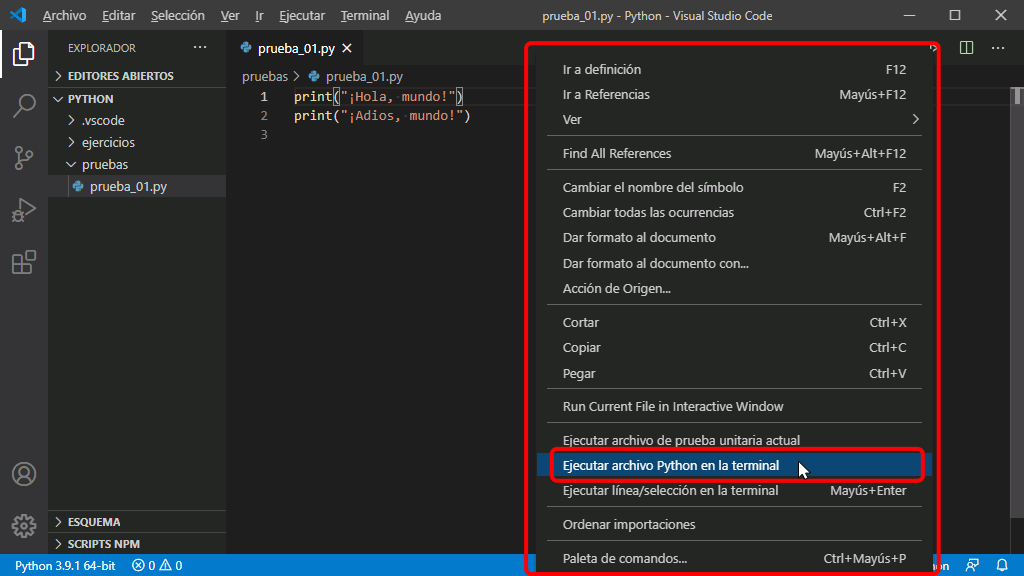
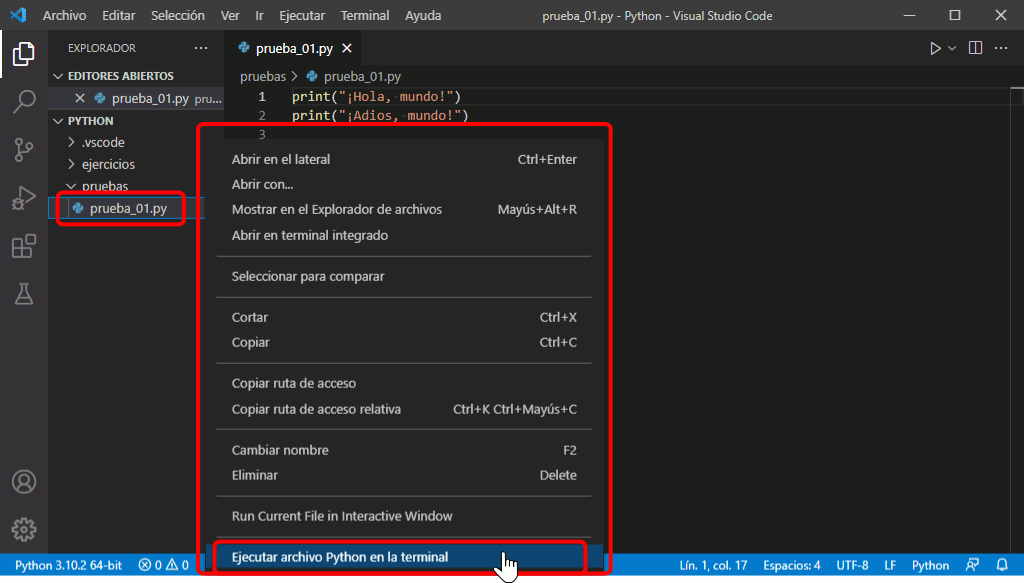
Configuración VSCode: actualizo detalles

diff --git a/otros/vsc-python-configuracion.html b/otros/vsc-python-configuracion.html
@@ -82,9 +82,15 @@
         </p>
       </li>
 
-      <li>Se abrirá en Explorador en la barra de actividades para ver el contenido de la carpeta elegida:
+      <li>Desde la versión 1.57 (mayo 2021) Visual Studio Code incluye un administrador de confianza (<a href="https://code.visualstudio.com/docs/editor/workspace-trust">Workspace Trust</a>). Visual Studio Code sólo ejecutará archivos cuando se haya indicado que se confía en ellos. La primera vez que se abre una carpeta, Visual Studio Code pregunta si se confía en el contenido de esa carpeta. Haga clic en "Sí, confío en los autores":
         <p class="captura">
-          <img src="../img/vscode/vsc-python-area-trabajo-5.png" alt="VSC. Área de trabajo" width="1024" height="210">
+          <img src="../img/vscode/vsc-python-area-trabajo-5.png" alt="VSC. Área de trabajo" width="1024" height="576">
+        </p>
+      </li>
+
+      <li>Se abrirá el Explorador en la barra de actividades para ver el contenido de la carpeta elegida:
+        <p class="captura">
+          <img src="../img/vscode/vsc-python-area-trabajo-6.png" alt="VSC. Área de trabajo" width="1024" height="210">
         </p>
       </li>
     </ol>
@@ -104,81 +110,88 @@
           Si ya tiene definidas otras preferencias en el <a href="https://www.mclibre.org/consultar/informatica/lecciones/vsc-personalizacion.html#configuracion">archivo de configuración</a>, añada las siguientes preferencias de configuración:
           <div class="codigo">
             <pre>
-<code class="copy-language-json">  //
-  //
-  // Configuraciones recomendadas para el curso Introducción a la programación con Python
-  //
-  // Files: Insert Final Newline
-  // Si se habilita, inserte una nueva línea al final del archivo cuando lo guarde.
-  "files.insertFinalNewline": true,
-  //
-  // Extensión multi-command
-  "multiCommand.commands": [
-    {
-      "command": "multiCommand.clearTerminal",
-      "sequence": [
+<code class="copy-language-json">   //
+    //
+    // Configuraciones recomendadas para el curso Introducción a la programación con Python
+    //
+    // Files: Insert Final Newline
+    // Si se habilita, inserte una nueva línea al final del archivo cuando lo guarde.
+    "files.insertFinalNewline": true,
+    //
+    // Python &gt; Formatting: Provider
+    // Provider for formatting. Possible options include 'autopep8', 'black', and 'yapf'.
+    "python.formatting.provider": "black",
+    //
+    // Extensión multi-command
+    "multiCommand.commands": [
         {
-          "command": "workbench.action.terminal.sendSequence",
-          "args": {
-            "text": "clear\u000D"
-          }
+            "command": "multiCommand.clearTerminal",
+            "sequence": [
+                {
+                    "command": "workbench.action.terminal.sendSequence",
+                    "args": {
+                        "text": "clear\u000D"
+                    }
+                },
+                "workbench.action.focusActiveEditorGroup",
+            ],
         },
-        "workbench.action.focusActiveEditorGroup",
-      ],
-    },
-    {
-      "command": "multiCommand.pythonExecuteInTerminal",
-      "sequence": [
-        "workbench.action.terminal.focus",
         {
-          "command": "workbench.action.terminal.sendSequence",
-          "args": {
-            "text": "cd '${fileDirname}'\u000Dclear\u000Dpy '${fileBasename}'\u000D"
-          }
+            "command": "multiCommand.pythonExecuteInTerminal",
+            "sequence": [
+                "workbench.action.terminal.focus",
+                {
+                    "command": "workbench.action.terminal.sendSequence",
+                    "args": {
+                        "text": "cd '${fileDirname}'\u000Dclear\u000Dpy '${fileBasename}'\u000D"
+                    }
+                },
+                "workbench.action.focusActiveEditorGroup",
+            ],
         },
-        "workbench.action.focusActiveEditorGroup",
-      ],
-    },
-    {
-      "command": "multiCommand.pythonExecuteAndFocusInTerminal",
-      "sequence": [
-        "workbench.action.terminal.focus",
         {
-          "command": "workbench.action.terminal.sendSequence",
-          "args": {
-            "text": "cd '${fileDirname}'\u000Dclear\u000Dpy '${fileBasename}'\u000D"
-          }
+            "command": "multiCommand.pythonExecuteAndFocusInTerminal",
+            "sequence": [
+                "workbench.action.terminal.focus",
+                {
+                    "command": "workbench.action.terminal.sendSequence",
+                    "args": {
+                        "text": "cd '${fileDirname}'\u000Dclear\u000Dpy '${fileBasename}'\u000D"
+                    }
+                },
+            ],
         },
-      ],
-    },
-    {
-      "command": "multiCommand.pythonMptcInTerminal",
-      "sequence": [
-        "workbench.action.terminal.focus",
         {
-          "command": "workbench.action.terminal.sendSequence",
-          "args": {
-            "text": "cd '${fileDirname}'\u000Dclear\u000Dmptc '${fileBasename}' "
-          }
+            "command": "multiCommand.pythonMptcInTerminal",
+            "sequence": [
+                "workbench.action.terminal.focus",
+                {
+                    "command": "workbench.action.terminal.sendSequence",
+                    "args": {
+                        "text": "cd '${fileDirname}'\u000Dclear\u000Dmptc '${fileBasename}' "
+                    }
+                },
+            ],
         },
-      ],
-    },
-  ],
-  //
-  // Extensión pylint
-  "python.linting.pylintArgs": [
-    "--extension-pkg-whitelist=pygame",
-    "--disable=C0103, C0114, C0115, C0116",
-    // Pylint features. Pylint global options and switches
-    // http://pylint.pycqa.org/en/2.4/technical_reference/features.html
-    // http://pylint.pycqa.org/en/latest/technical_reference/features.html
-    // C0103: invalid-name - Used when the name doesn't conform to naming rules associated to its type (constant, variable, class...).
-    // C0114: missing-module-docstring - Used when a module has no docstring.Empty modules do not require a docstring.
-    // C0115: missing-class-docstring - Used when a class has no docstring.Even an empty class must have a docstring.
-    // C0116: missing-function-docstring - Used when a function or method has no docstring.Some special methods like __init__ do not require a docstring.
-  ],
-  //
-  //</code>
+    ],
+    //
+    // Extensión pylint
+    "python.linting.pylintArgs": [
+        "--extension-pkg-whitelist=pygame",
+        "--disable=C0103, C0114, C0115, C0116, C0301, C0302, C0330",
+        // Pylint features. Pylint global options and switches
+        // http://pylint.pycqa.org/en/2.4/technical_reference/features.html
+        // http://pylint.pycqa.org/en/latest/technical_reference/features.html
+        // C0103: invalid-name - Used when the name doesn't conform to naming rules associated to its type (constant, variable, class...).
+        // C0114: missing-module-docstring - Used when a module has no docstring.Empty modules do not require a docstring.
+        // C0115: missing-class-docstring - Used when a class has no docstring.Even an empty class must have a docstring.
+        // C0116: missing-function-docstring - Used when a function or method has no docstring.Some special methods like __init__ do not require a docstring.
+        // C0301: line-too-long
+        // C0302: too-many-lines
+        // C0330: bad-continuation - Wrong %s indentation%s%s. TODO
+    ],
+    //
+    //</code>
 </pre>
           </div>
         </li>
@@ -187,78 +200,85 @@
           <div class="codigo">
             <pre>
 <code class="copy-language-json">{
-  // Configuraciones recomendadas para el curso Introducción a la programación con Python
-  //
-  // Files: Insert Final Newline
-  // Si se habilita, inserte una nueva línea al final del archivo cuando lo guarde.
-  "files.insertFinalNewline": true,
-  //
-  // Extensión multi-command
-  "multiCommand.commands": [
-    {
-      "command": "multiCommand.clearTerminal",
-      "sequence": [
+    // Configuraciones recomendadas para el curso Introducción a la programación con Python
+    //
+    // Files: Insert Final Newline
+    // Si se habilita, inserte una nueva línea al final del archivo cuando lo guarde.
+    "files.insertFinalNewline": true,
+    //
+    // Python &gt; Formatting: Provider
+    // Provider for formatting. Possible options include 'autopep8', 'black', and 'yapf'.
+    "python.formatting.provider": "black",
+    //
+    // Extensión multi-command
+    "multiCommand.commands": [
         {
-          "command": "workbench.action.terminal.sendSequence",
-          "args": {
-            "text": "clear\u000D"
-          }
+            "command": "multiCommand.clearTerminal",
+            "sequence": [
+                {
+                    "command": "workbench.action.terminal.sendSequence",
+                    "args": {
+                        "text": "clear\u000D"
+                    }
+                },
+                "workbench.action.focusActiveEditorGroup",
+            ],
         },
-        "workbench.action.focusActiveEditorGroup",
-      ],
-    },
-    {
-      "command": "multiCommand.pythonExecuteInTerminal",
-      "sequence": [
-        "workbench.action.terminal.focus",
         {
-          "command": "workbench.action.terminal.sendSequence",
-          "args": {
-            "text": "cd '${fileDirname}'\u000Dclear\u000Dpy '${fileBasename}'\u000D"
-          }
+            "command": "multiCommand.pythonExecuteInTerminal",
+            "sequence": [
+                "workbench.action.terminal.focus",
+                {
+                    "command": "workbench.action.terminal.sendSequence",
+                    "args": {
+                        "text": "cd '${fileDirname}'\u000Dclear\u000Dpy '${fileBasename}'\u000D"
+                    }
+                },
+                "workbench.action.focusActiveEditorGroup",
+            ],
         },
-        "workbench.action.focusActiveEditorGroup",
-      ],
-    },
-    {
-      "command": "multiCommand.pythonExecuteAndFocusInTerminal",
-      "sequence": [
-        "workbench.action.terminal.focus",
         {
-          "command": "workbench.action.terminal.sendSequence",
-          "args": {
-            "text": "cd '${fileDirname}'\u000Dclear\u000Dpy '${fileBasename}'\u000D"
-          }
+            "command": "multiCommand.pythonExecuteAndFocusInTerminal",
+            "sequence": [
+                "workbench.action.terminal.focus",
+                {
+                    "command": "workbench.action.terminal.sendSequence",
+                    "args": {
+                        "text": "cd '${fileDirname}'\u000Dclear\u000Dpy '${fileBasename}'\u000D"
+                    }
+                },
+            ],
         },
-      ],
-    },
-    {
-      "command": "multiCommand.pythonMptcInTerminal",
-      "sequence": [
-        "workbench.action.terminal.focus",
         {
-          "command": "workbench.action.terminal.sendSequence",
-          "args": {
-            "text": "cd '${fileDirname}'\u000Dclear\u000Dmptc '${fileBasename}' "
-          }
+            "command": "multiCommand.pythonMptcInTerminal",
+            "sequence": [
+                "workbench.action.terminal.focus",
+                {
+                    "command": "workbench.action.terminal.sendSequence",
+                    "args": {
+                        "text": "cd '${fileDirname}'\u000Dclear\u000Dmptc '${fileBasename}' "
+                    }
+                },
+            ],
         },
-      ],
-    },
-  ],
-  //
-  // Extensión pylint
-  "python.linting.pylintArgs": [
-    "--extension-pkg-whitelist=pygame",
-    "--disable=C0103, C0114, C0115, C0116",
-    // Pylint features. Pylint global options and switches
-    // http://pylint.pycqa.org/en/2.4/technical_reference/features.html
-    // http://pylint.pycqa.org/en/latest/technical_reference/features.html
-    // C0103: invalid-name - Used when the name doesn't conform to naming rules associated to its type (constant, variable, class...).
-    // C0114: missing-module-docstring - Used when a module has no docstring.Empty modules do not require a docstring.
-    // C0115: missing-class-docstring - Used when a class has no docstring.Even an empty class must have a docstring.
-    // C0116: missing-function-docstring - Used when a function or method has no docstring.Some special methods like __init__ do not require a docstring.
-  ],
-  //
+    ],
+    //
+    // Extensión pylint
+    "python.linting.pylintArgs": [
+        "--extension-pkg-whitelist=pygame",
+        "--disable=C0103, C0114, C0115, C0116, C0301, C0302, C0330",
+        // Pylint features. Pylint global options and switches
+        // http://pylint.pycqa.org/en/2.4/technical_reference/features.html
+        // http://pylint.pycqa.org/en/latest/technical_reference/features.html
+        // C0103: invalid-name - Used when the name doesn't conform to naming rules associated to its type (constant, variable, class...).
+        // C0114: missing-module-docstring - Used when a module has no docstring.Empty modules do not require a docstring.
+        // C0115: missing-class-docstring - Used when a class has no docstring.Even an empty class must have a docstring.
+        // C0116: missing-function-docstring - Used when a function or method has no docstring.Some special methods like __init__ do not require a docstring.
+        // C0301: line-too-long
+        // C0302: too-many-lines
+        // C0330: bad-continuation - Wrong %s indentation%s%s. TODO
+    ],
+    //
 }</code>
 </pre>
           </div>
@@ -360,6 +380,7 @@
           <a href="https://devblogs.microsoft.com/python/python-in-visual-studio-code-september-2021-release/">Septiembre</a> -
           <a href="https://devblogs.microsoft.com/python/python-in-visual-studio-code-october-2021-release/">Octubre</a> -
           <a href="https://devblogs.microsoft.com/python/python-in-visual-studio-code-november-2021-release/">Noviembre</a> -
+          <a href="https://devblogs.microsoft.com/python/python-in-visual-studio-code-december-2021-release/">Diciembre</a>
         </li>
       </ul>
 
@@ -431,7 +452,7 @@
         <ol>
           <li>Abra o escriba un programa cualquiera y teclee el atajo <span class="soft-atajo-teclado">Shift+Alt+f</span> para formatear el código.</li>
           <li>
-            Se mostrará el aviso indicando que no hay ningún formateador instalado y ofreciendo la instalación de <strong>autopep8</strong>, pero en estos apuntes se recomienda el uso de  <strong>black</strong>. Haga clic en "Use black" para instalarlo.
+            Se mostrará el aviso indicando que no hay ningún formateador instalado y ofreciendo la instalación de <strong>autopep8</strong>, pero en estos apuntes se recomienda el uso de <strong>black</strong>. Haga clic en "Use black" para instalarlo.
             <p class="captura">
               <img src="../img/vscode/vsc-python-formatter-1.png" alt="VSC. Instalación de black" width="1024" height="150">
             </p>
@@ -608,16 +629,22 @@
 
       <hr class="corta">
 
-      <p>Si no se define el atajo de teclado, el programa se puede ejecutar igualmente haciendo clic derecho en el cuerpo del programa y eligiendo la opción "Ejecutar archivo Python en la terminal".</p>
+      <p>Si no se han definido los atajos de teclado anteriores, el programa se puede ejecutar igualmente haciendo clic derecho en el nombre del programa en el explorador y eligiendo la opción "Ejecutar archivo Python en la terminal" ... </p>
 
       <p class="captura">
-        <img src="../img/vscode/vsc-python-atajo-3.png" alt="VSC. Ejecutar programas Python en VSC" width="1024" height="576">
+        <img src="../img/vscode/vsc-python-atajo-3.png" alt="VSC. Ejecutar programas Python en VSC" width="1024" height="583">
       </p>
 
-      <p>En este caso, el terminal se abre en el directorio raíz del área de trabajo y el foco se mantiene en el editor.</p>
+      <p>... o haciendo clic derecho en el cuerpo del programa y eligiendo la opción "Ejecutar archivo Python en la terminal".</p>
 
       <p class="captura">
-        <img src="../img/vscode/vsc-python-atajo-4.png" alt="VSC. Ejecutar programas Python en VSC" width="1024" height="460">
+        <img src="../img/vscode/vsc-python-atajo-4.png" alt="VSC. Ejecutar programas Python en VSC" width="1024" height="576">
+      </p>
+
+      <p>En ambos casos, el terminal se abre en el directorio raíz del área de trabajo y el foco se mantiene en el editor.</p>
+
+      <p class="captura">
+        <img src="../img/vscode/vsc-python-atajo-5.png" alt="VSC. Ejecutar programas Python en VSC" width="1024" height="460">
       </p>
     </section>
 
@@ -647,7 +674,7 @@
   </section>
 
   <footer>
-    <p class="ultmod">Última modificación de esta página: 7 de noviembre de 2021</p>
+    <p class="ultmod">Última modificación de esta página: 31 de enero de 2022</p>
 
     <p class="licencia">
       <a rel="license" href="https://creativecommons.org/licenses/by-sa/4.0/deed.es_ES"><img src="../varios/iconos/icono-cc-by-sa.svg" alt="Licencia Creative Commons" title="Licencia Creative Commons BY-SA" width="120" height="42"></a><br>
